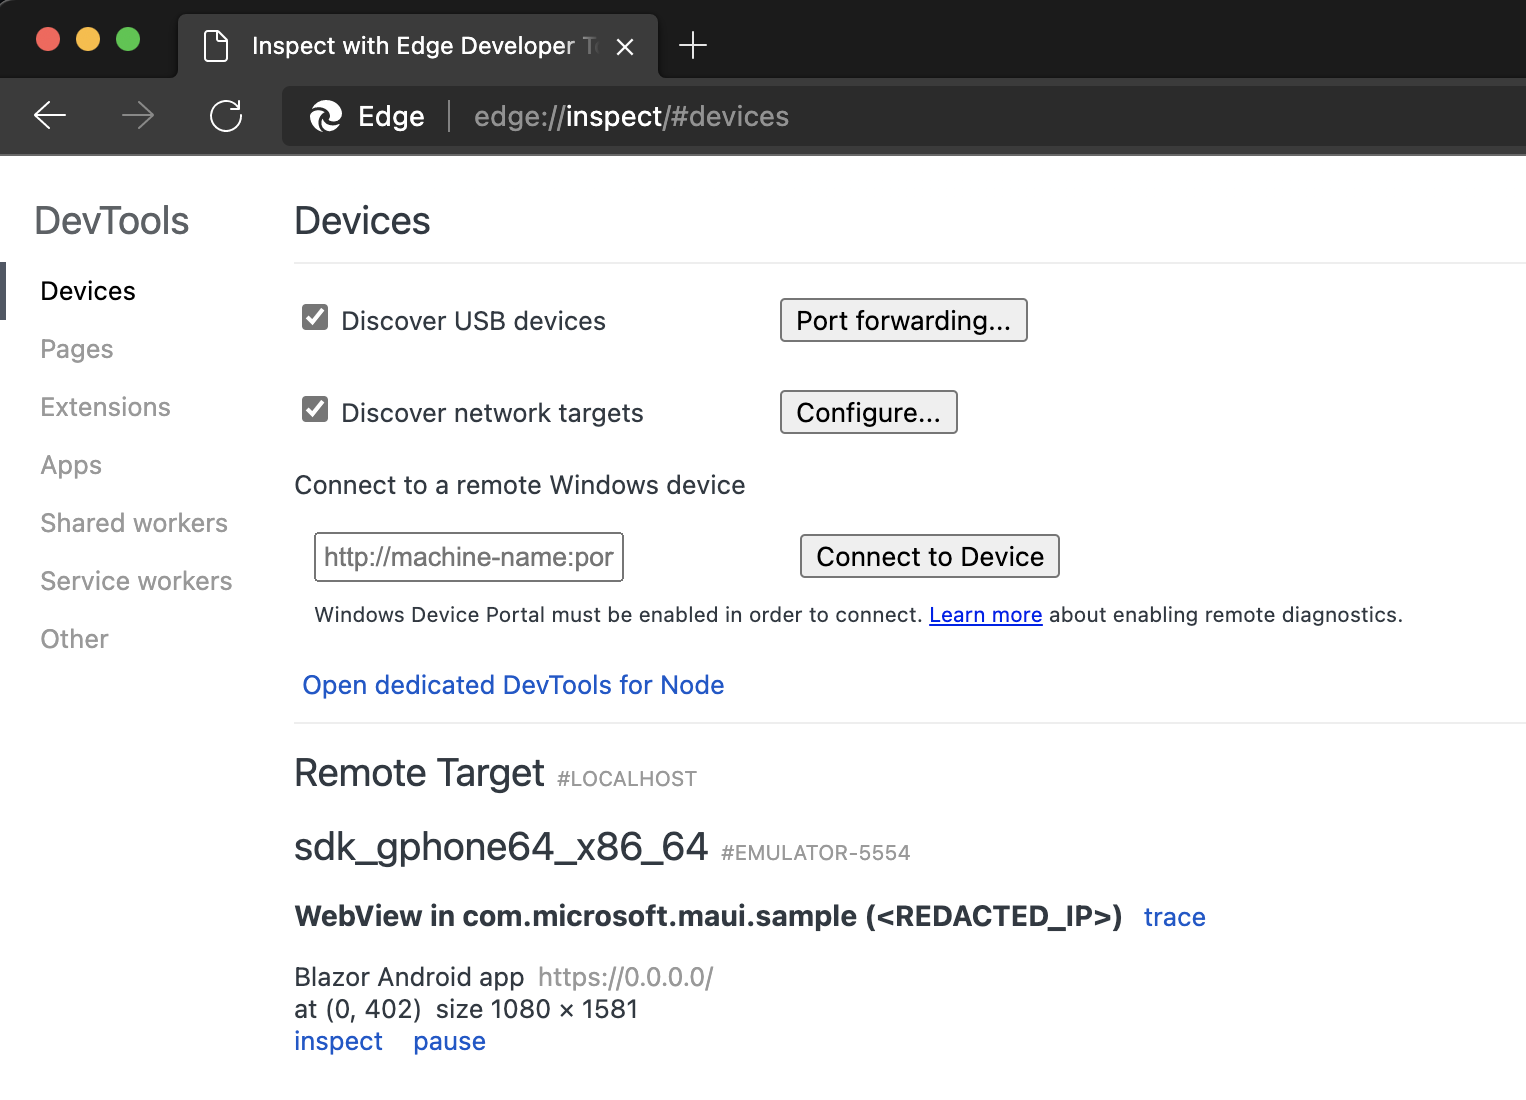
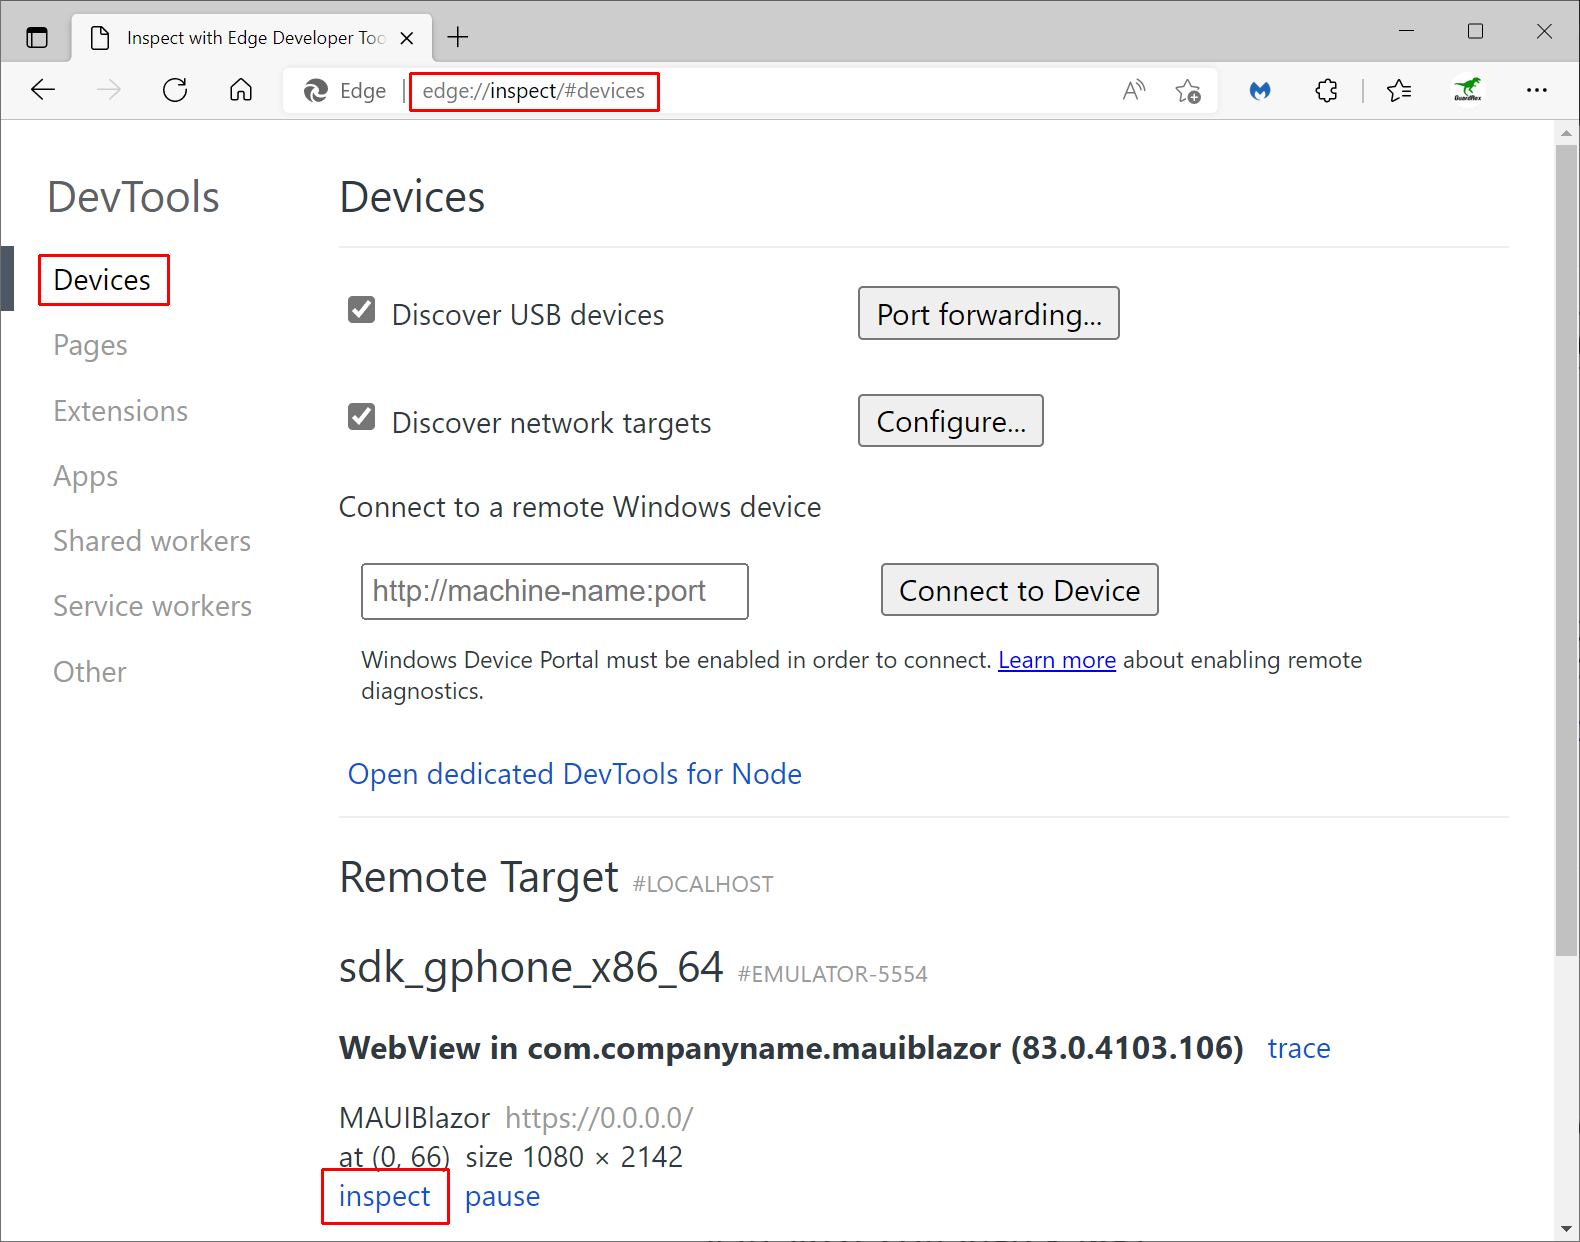
Updates

diff --git a/aspnetcore/blazor/hybrid/developer-tools.md b/aspnetcore/blazor/hybrid/developer-tools.md
@@ -5,7 +5,7 @@ description: Learn how to use browser developer tools with Blazor Hybrid apps.
 monikerRange: '>= aspnetcore-6.0'
 ms.author: riande
 ms.custom: "mvc"
-ms.date: 03/22/2022
+ms.date: 03/23/2022
 no-loc: ["Blazor Hybrid", Home, Privacy, Kestrel, appsettings.json, "ASP.NET Core Identity", cookie, Cookie, Blazor, "Blazor Server", "Blazor WebAssembly", "Identity", "Let's Encrypt", Razor, SignalR]
 uid: blazor/hybrid/developer-tools
 ---
@@ -15,35 +15,40 @@ This article explains how to use [browser developer tools](https://developer.moz
 
 [!INCLUDE[](~/blazor/includes/blazor-hybrid-preview-notice.md)]
 
-## Emulator console window 
+## .NET MAUI Blazor Hybrid
 
-Access the developer tools console to read exception messages. In the following example, the **Console** tab of developer tools during emulation of an Apple tablet device shows an unhandled exception in a .NET MAUI Blazor app:
+To use developer tools with a .NET MAUI Blazor app, use the guidance in the following sections depending on the operating system used to run the app:
 
-![Web Inspector window for a Blazor Hybrid app running on an emulated iPad Mini](~/blazor/hybrid/developer-tools/_static/debug-window.png)
+* [iOS](#ios)
+* [Android](#android)
 
-## iOS
+### iOS
 
-Follow these steps to inspect console messages of an iOS app in desktop Safari, including exception messages:
+Use the following steps to use Safari developer tools with an iOS app. The following example shows how to inspect an unhandled exception in the **Web Inspector** console log:
 
 1. Open desktop Safari.
 1. Select the **Preferences** > **Advanced** > **Show Develop** menu item.
 1. Run the .NET MAUI Blazor app in the Visual Studio emulator.
-1. Return to desktop Safari. Select **Develop** > **Simulator** > **0.0.0.0**. If multiple entries for **0.0.0.0** are present, select the entry that highlights the `WebView`. The `WebView` is highlighted in blue in the Visual Studio emulator when the correct **0.0.0.0** entry is selected.
-1. The **Web Inspector** appears for the `WebView`.
+1. Return to desktop Safari. Select **Develop** > **Simulator** > **0.0.0.0**. If multiple entries for **0.0.0.0** are present, select the entry that highlights the `BlazorWebView`. The `BlazorWebView` is highlighted in blue in the Visual Studio emulator when the correct **0.0.0.0** entry is selected.
 
-   ![Safari Develop Simulator open showing two entries for "0.0.0.0" with the second entry selected because it highlights the WebView in the Visual Studio emulator UI.](~/blazor/hybrid/developer-tools/_static/ios.png)
+   ![Safari Develop Simulator open showing two entries for "0.0.0.0" with the second entry selected because it highlights the BlazorWebView in the Visual Studio emulator UI.](~/blazor/hybrid/developer-tools/_static/ios.png)
 
-1. Inspect the **Console** tab to see the console messages, which includes any exception messages generated by the framework or developer code.
+1. The Simulator window opens, and the **Web Inspector** appears for the `BlazorWebView`.
+1. Inspect the **Console** tab to see the console messages, which includes any exception messages generated by the framework or developer code:
 
-## Android
+   ![Simulator window for a Blazor Hybrid app running on an emulated iPad mini](~/blazor/hybrid/developer-tools/_static/safari-debug-window.png)
 
-Follow these steps to inspect console messages of an Android app in Google Chrome or Microsoft Edge, including exception messages:
+### Android
 
-1. Start the Visual Studio Android emulator and navigate to the .NET MAUI Blazor app `WebView`.
+Use the following steps to use browser developer tools with an Android app. The following example shows how to inspect an unhandled exception in the developer tools console log:
+
+1. Start the Visual Studio Android emulator and navigate to an app page that uses a `BlazorWebView`.
 1. Open Google Chrome or Microsoft Edge.
 1. Navigate to `chrome://inspect/#devices` (Google Chrome) or `edge://inspect/#devices` (Microsoft Edge).
-1. Select the **`inspect`** link button to open developer tools:
+1. Select the **`inspect`** link button to open developer tools. The following example shows the **DevTools** page in Microsoft Edge:
 
-   ![Microsoft Edge Devices showing the WebView's "inspect" link button to open developer tools.](~/blazor/hybrid/developer-tools/_static/android.png)
+   ![Microsoft Edge Devices showing the BlazorWebView's "inspect" link button to open developer tools.](~/blazor/hybrid/developer-tools/_static/android.png)
 
-1. Inspect the **Console** tab to see the console messages, which includes any exception messages generated by the framework or developer code.
+1. Inspect the **Console** tab to see the console messages, which includes any exception messages generated by the framework or developer code:
+
+   ![DevTools window for a Blazor Hybrid app running on an emulated Pixel 5](~/blazor/hybrid/developer-tools/_static/edge-debug-window.png)
